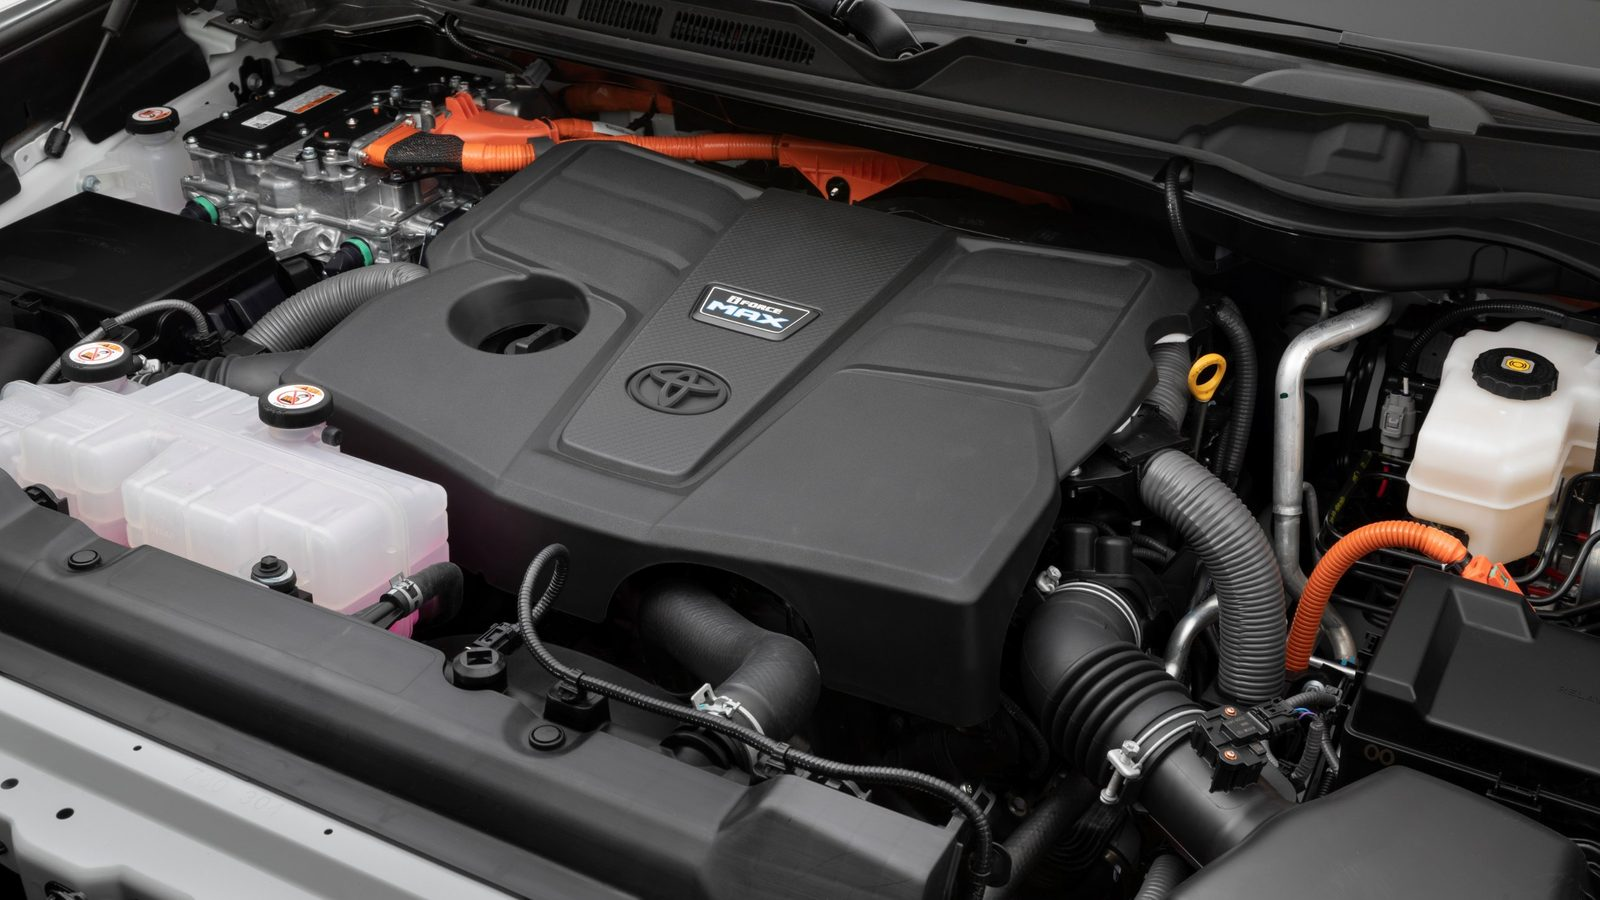
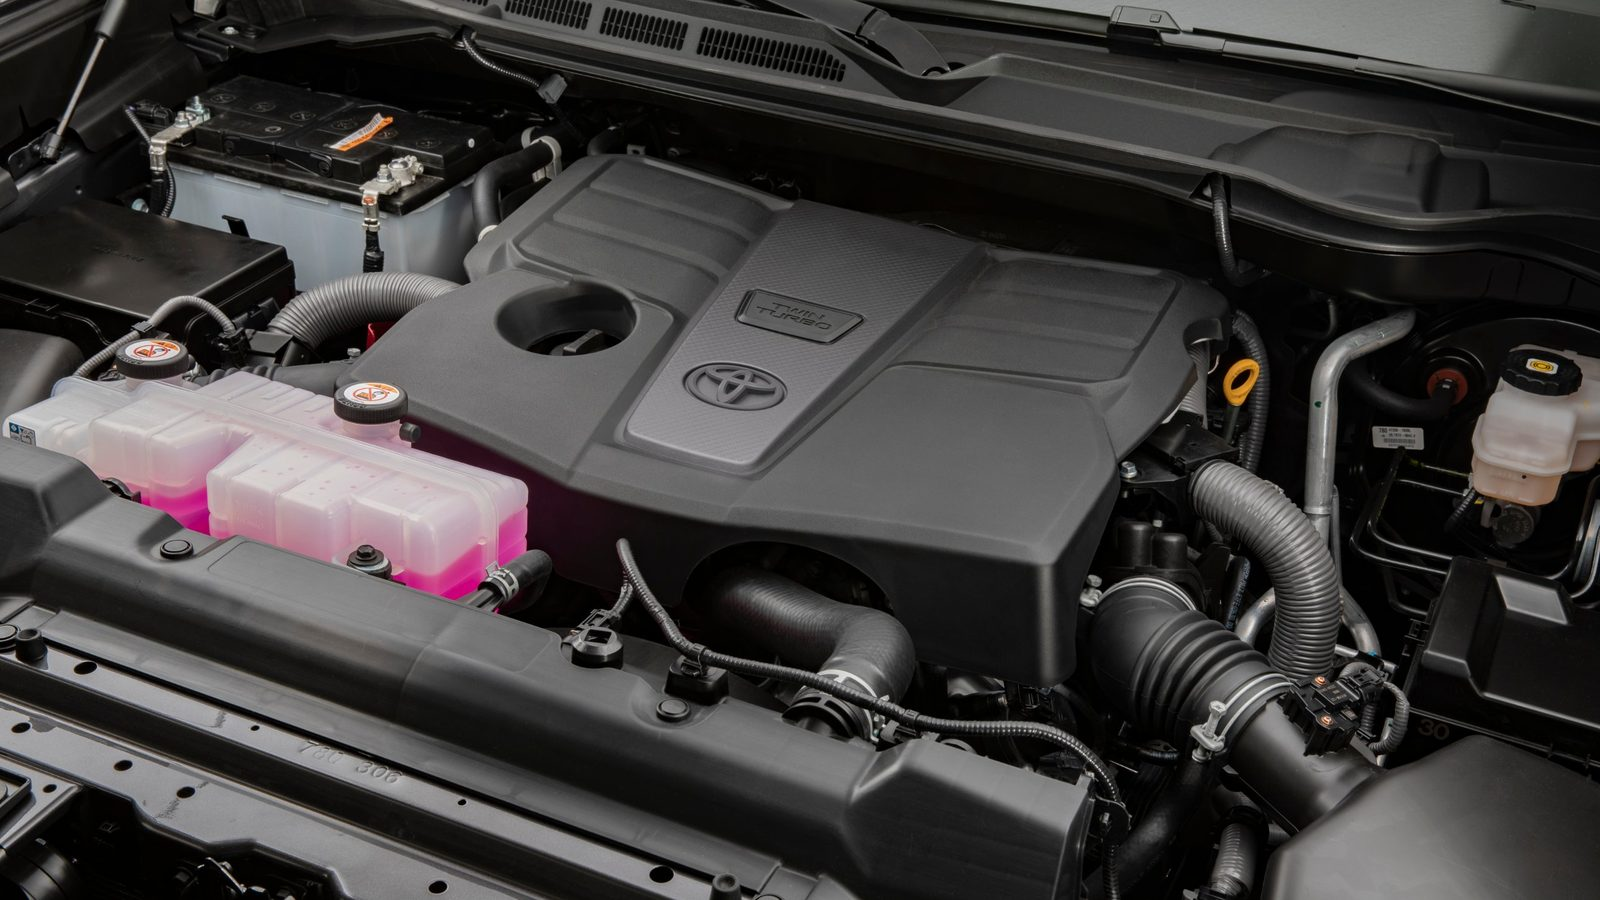
Tundra guide: twin-turbo V6 engine bay in the engine-recall chapter
Swaps the i-FORCE MAX hybrid engine bay for Toyota's 2022 Tundra Limited
engine bay (2022_Toyota_Tundra_Limited_32), with new alt text and caption.

Claude-Session: https://claude.ai/code/session_01HYzk1VZuL8GrrLtk25iAx5

diff --git a/fitdrive/guides/toyota-tundra/engine-recall/index.html b/fitdrive/guides/toyota-tundra/engine-recall/index.html
@@ -59,7 +59,7 @@
 </header>
 
 <main class="wrap gw gmain">
-  <figure class="ghero"><img src="/fitdrive/guides/toyota-tundra/img/ch4-hero.jpg" alt="The engine bay of a 2022 Toyota Tundra i-FORCE MAX, with the twin-turbo V6 under its cover and the hybrid system&#x27;s orange cables" fetchpriority="high"><figcaption>Shown: the i-FORCE MAX hybrid, which isn&#x27;t named in these recalls. Photo: Toyota</figcaption></figure>
+  <figure class="ghero"><img src="/fitdrive/guides/toyota-tundra/img/ch4-hero.jpg" alt="The engine bay of a 2022 Toyota Tundra Limited, with the twin-turbo V6 under its Twin Turbo engine cover" fetchpriority="high"><figcaption>Shown: the twin-turbo V6 in a 2022 Tundra Limited. Photo: Toyota</figcaption></figure>
   <div class="gstats"><div class="gs"><div class="v">3</div><div class="l">Recalls so far</div></div><div class="gs"><div class="v">2022<small>–2024</small></div><div class="l">Tundra model years affected</div></div><div class="gs"><div class="v">$0</div><div class="l">Cost of the remedy to the owner</div></div></div>
   <div class="gtoc" role="navigation" aria-label="Chapters in this guide"><div class="th">In this guide</div><ol><li><a href="/fitdrive/guides/toyota-tundra/"><span class="n">&#9679;</span>Overview</a></li><li><a href="/fitdrive/guides/toyota-tundra/2017-2021-v8/"><span class="n">1</span>2017–2021 V8</a></li><li><a href="/fitdrive/guides/toyota-tundra/2022-2026/"><span class="n">2</span>2022–2026</a></li><li><a href="/fitdrive/guides/toyota-tundra/hybrid/"><span class="n">3</span>i-FORCE MAX hybrid</a></li><li><a href="/fitdrive/guides/toyota-tundra/engine-recall/" aria-current="page" class="on"><span class="n">4</span>The engine recall</a></li><li><a href="/fitdrive/guides/toyota-tundra/trims-and-towing/"><span class="n">5</span>Trims and towing</a></li><li><a href="/fitdrive/guides/toyota-tundra/used-checklist/"><span class="n">6</span>Used checklist</a></li></ol></div>
   <p class="gjump"><b>Charts in this chapter</b><a href="#chart-5">Chart 5 &middot; The engine recalls, by size</a></p>
